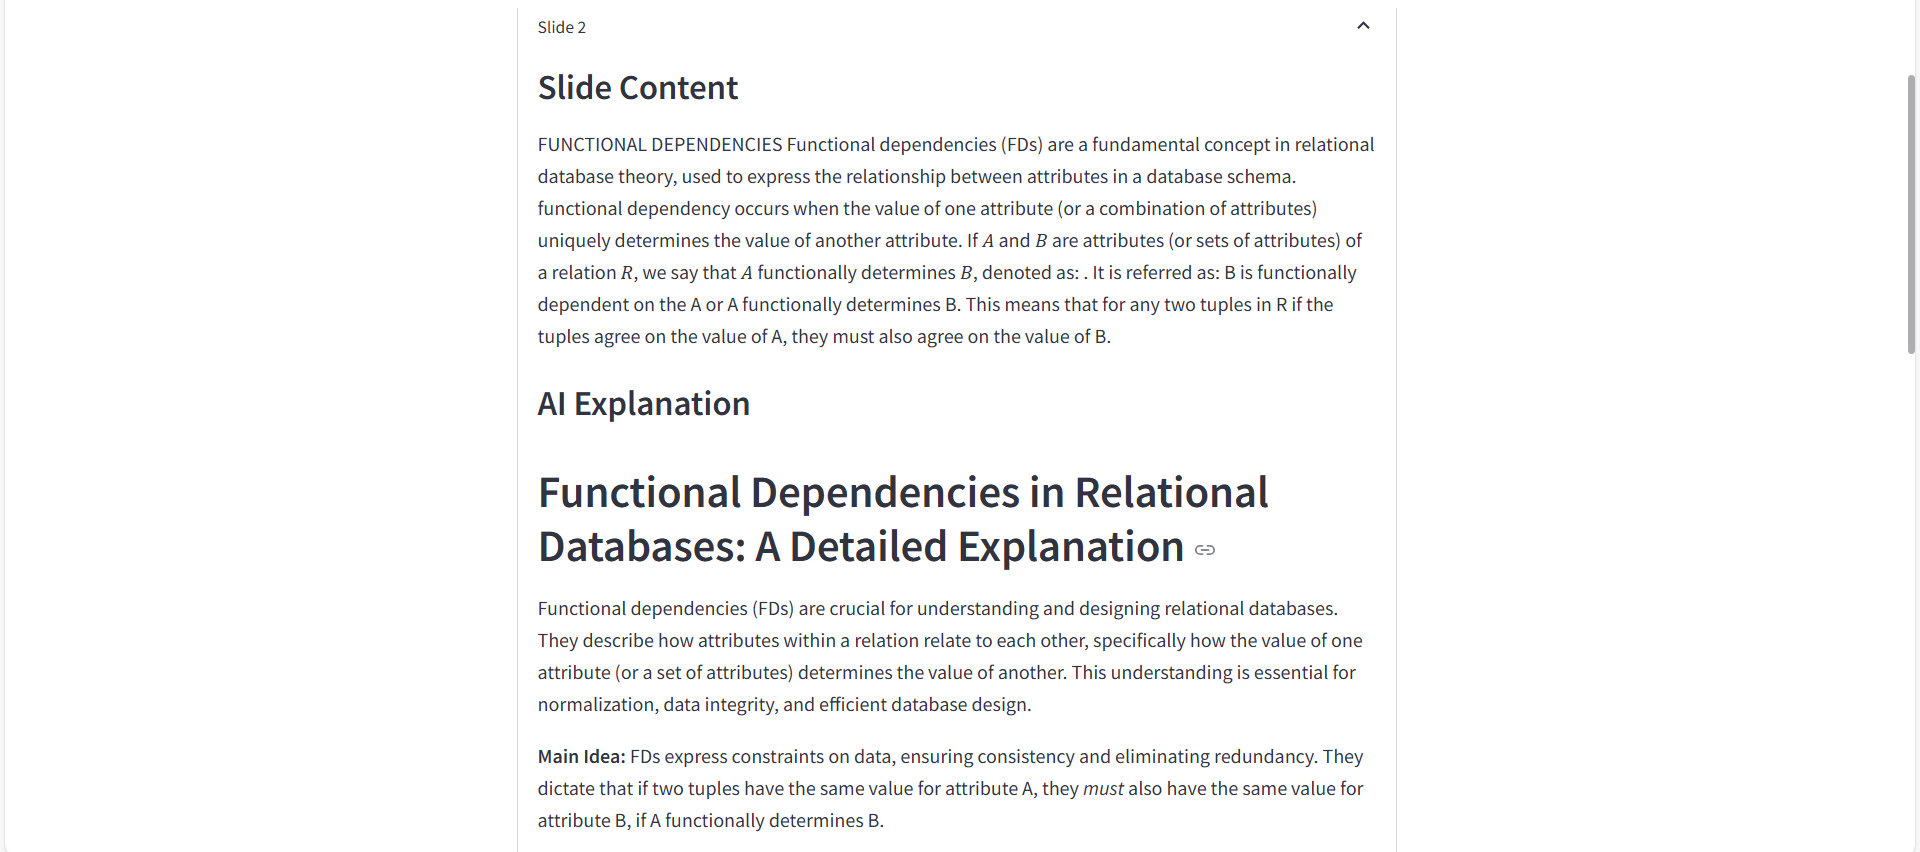
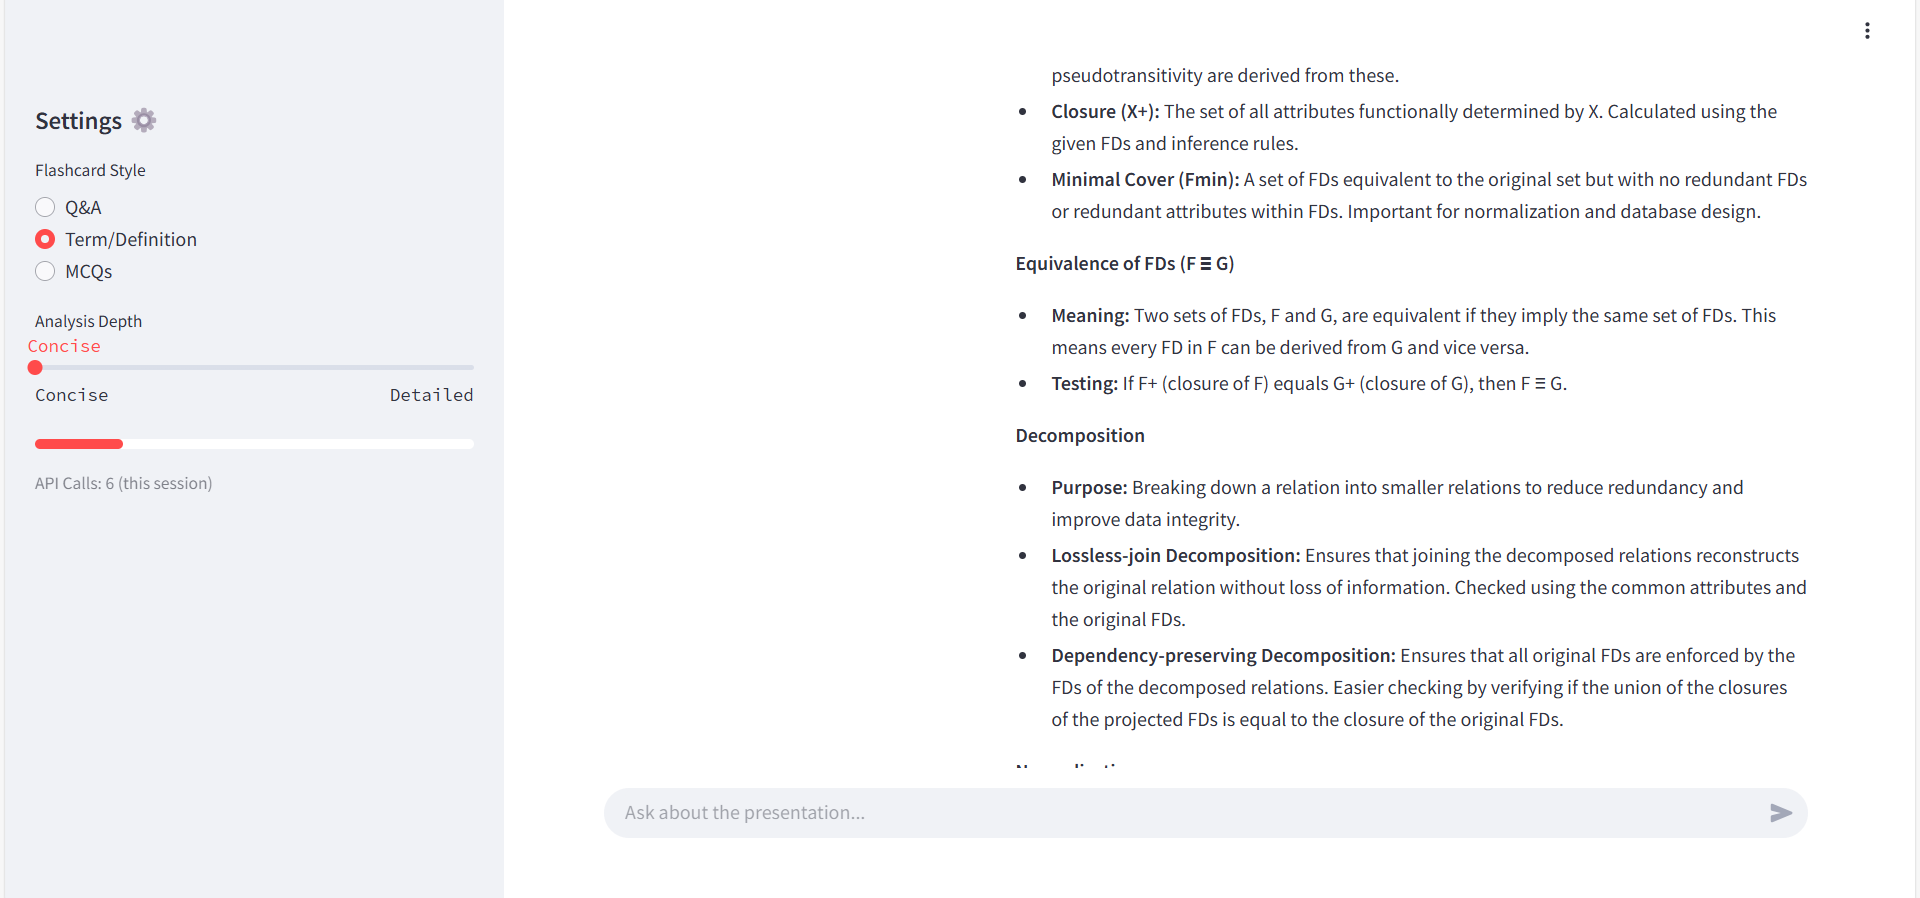
added features

diff --git a/app.py b/app.py
@@ -3,49 +3,220 @@ import streamlit as st
 from pptx import Presentation
 import tempfile
 import os
+import pandas as pd
+import time
+from google.api_core import retry
+from google.api_core.exceptions import ResourceExhausted  # Import correct exception
 
 # Configure Gemini API
 genai.configure(api_key=st.secrets["GEMINI_API_KEY"])
 
+# Custom retry configuration
+def if_retryable(error):
+    return isinstance(error, (genai.types.BlockedPromptException, 
+                                genai.types.StopCandidateException,
+                                ResourceExhausted))  # Use imported ResourceExhausted
 
-def analyze_slide(slide_text):
-    """Get AI analysis for slide content using Gemini"""
-    model = genai.GenerativeModel("models/gemini-1.5-pro")  # Recommended model
-    response = model.generate_content(
-        f"Using the following slide content, provide a comprehensive and detailed explanation. Summarize the main ideas, elaborate on key concepts, and highlight the information that is most critical for exam preparation. If appropriate, include bullet points or key takeaways to clearly outline the important points.Slide content:{slide_text}"
-    )
+retry_policy = retry.Retry(
+    predicate=if_retryable,
+    initial=1,
+    maximum=10,
+    multiplier=2,
+    deadline=300
+)
+
+# Session state management
+if 'processed' not in st.session_state:
+    st.session_state.processed = {
+        'file_hash': None,
+        'slides': [],
+        'flashcards': [],
+        'api_calls': 0,
+        'last_call': 0
+    }
+
+# Rate limiting configuration
+MAX_CALLS_PER_MINUTE = 30  # Adjust based on your quota
+MIN_INTERVAL = max(60 / MAX_CALLS_PER_MINUTE, 1)
+
+@retry_policy
+def safe_generate(prompt):
+    current_time = time.time()
+    elapsed = current_time - st.session_state.processed['last_call']
+    
+    if elapsed < MIN_INTERVAL:
+        time.sleep(MIN_INTERVAL - elapsed)
+    
+    model = genai.GenerativeModel("gemini-1.5-pro-latest")
+    response = model.generate_content(prompt)
+    
+    st.session_state.processed['api_calls'] += 1
+    st.session_state.processed['last_call'] = time.time()
+    
     return response.text
 
 def process_ppt(file):
-    """Extract and analyze slides"""
+    """Process PowerPoint file with caching"""
+    file_hash = hash(file.getvalue())
+    if file_hash == st.session_state.processed['file_hash']:
+        return st.session_state.processed['slides']
+    
     with tempfile.NamedTemporaryFile(delete=False) as tmp:
         tmp.write(file.read())
         prs = Presentation(tmp.name)
     
     results = []
     for i, slide in enumerate(prs.slides):
-        text = "\n".join(
-            shape.text for shape in slide.shapes 
-            if shape.has_text_frame
-        )
-        analysis = analyze_slide(text)
-        results.append((f"Slide {i+1}", text, analysis))
+        text = "\n".join(shape.text for shape in slide.shapes if shape.has_text_frame)
+        results.append({
+            "number": i+1,
+            "content": text,
+            "analysis": "",
+            "flashcards": []
+        })
     
     os.unlink(tmp.name)
+    st.session_state.processed['file_hash'] = file_hash
+    st.session_state.processed['slides'] = results
     return results
 
+def generate_analysis(content):
+    """Generate slide analysis with efficient prompt"""
+    prompt = f"Provide concise exam-focused analysis in bullet points:\n{content}"
+    return safe_generate(prompt)
+
+def generate_flashcards(content, card_type):
+    """Generate formatted flashcards"""
+    formats = {
+        "Q&A": "Generate 2-3 Q&A flashcards using:\nQ: question\nA: answer",
+        "Term/Definition": "Create 2-3 term/definition pairs using:\nT: term\nD: definition",
+        "MCQs": "Generate 2 MCQs with 4 options using:\nQ: question\nOptions: a) b) c) d)\nA: answer"
+    }
+    prompt = f"{formats[card_type]} from:\n{content}"
+    return safe_generate(prompt)
+
+def parse_flashcards(text, card_type):
+    """Parse generated flashcards into structured format"""
+    cards = []
+    current = {}
+    lines = text.split('\n')
+    
+    for line in lines:
+        line = line.strip()
+        if not line:
+            continue
+            
+        if card_type == "MCQs":
+            if line.startswith('Q:'):
+                current = {'question': line[3:].strip()}
+            elif line.startswith('Options:'):
+                current['options'] = line[8:].strip()
+            elif line.startswith('A:'):
+                current['answer'] = line[3:].strip()
+                cards.append(current)
+        else:
+            key = 'term' if card_type == "Term/Definition" else 'question'
+            val = 'definition' if card_type == "Term/Definition" else 'answer'
+            
+            if line.startswith(f"{key[0].upper()}:"):
+                current = {key: line[3:].strip()}
+            elif line.startswith(f"{val[0].upper()}:"):
+                current[val] = line[3:].strip()
+                cards.append(current)
+    
+    return cards
+
 # Streamlit UI
-st.title("AI PPT Explainer 🎓")
+st.set_page_config(page_title="AI PPT Summarizer", layout="wide")
+st.title("📚 AI PPT Summarizer with Smart Features")
+
+with st.sidebar:
+    st.header("Settings ⚙")
+    card_type = st.radio("Flashcard Style", ["Q&A", "Term/Definition", "MCQs"])
+    analysis_depth = st.select_slider("Analysis Depth", ["Concise", "Normal", "Detailed"])
+    st.progress(st.session_state.processed['api_calls'] % MAX_CALLS_PER_MINUTE / MAX_CALLS_PER_MINUTE)
+    st.caption(f"API Calls: {st.session_state.processed['api_calls']} (this session)")
+
 uploaded_file = st.file_uploader("Upload PowerPoint file", type=["ppt", "pptx"])
 
 if uploaded_file:
-    with st.spinner("Analyzing your presentation..."):
-        slides = process_ppt(uploaded_file)
+    slides = process_ppt(uploaded_file)
+    progress_bar = st.progress(0)
     
-    for slide_num, content, analysis in slides:
-        with st.expander(slide_num):
-            st.subheader("Slide Content")
-            st.write(content or "No text detected")
+    for idx, slide in enumerate(slides):
+        col1, col2 = st.columns([1, 2])
+        
+        with col1:
+            with st.expander(f"Slide {slide['number']} Content", expanded=True):
+                st.write(slide['content'] or "No text detected")
+        
+        with col2:
+            tab1, tab2 = st.tabs(["Analysis 📝", "Flashcards 🗂"])
             
-            st.subheader("AI Explanation")
-            st.write(analysis)
+            with tab1:
+                if not slide['analysis']:
+                    try:
+                        slide['analysis'] = generate_analysis(slide['content'])
+                    except Exception as e:
+                        st.error(f"Analysis failed: {str(e)}")
+                st.markdown(slide['analysis'])
+            
+            with tab2:
+                if not slide['flashcards']:
+                    try:
+                        raw = generate_flashcards(slide['content'], card_type)
+                        slide['flashcards'] = parse_flashcards(raw, card_type)
+                    except Exception as e:
+                        st.error(f"Flashcard generation failed: {str(e)}")
+                
+                if slide['flashcards']:
+                    cols = st.columns(2)
+                    for i, card in enumerate(slide['flashcards']):
+                        with cols[i % 2]:
+                            with st.container():
+                                st.markdown(f"""
+                                <div style='padding:10px;border-radius:5px;
+                                            background:#f0f2f6;margin:5px;'>
+                                    <b>{card.get('question', card.get('term', 'Q'))}:</b><br>
+                                    {card.get('options', '')}<br>
+                                    <details style='margin-top:5px'>
+                                        <summary>Reveal Answer</summary>
+                                        <div style='padding:5px;background:white;
+                                                    border-radius:3px;margin-top:5px'>
+                                            {card.get('answer', card.get('definition', ''))}
+                                        </div>
+                                    </details>
+                                </div>
+                                """, unsafe_allow_html=True)
+                    # Export buttons
+                    df = pd.DataFrame(slide['flashcards'])
+                    st.download_button(
+                        label=f"Export Slide {slide['number']} Flashcards",
+                        data=df.to_csv(index=False),
+                        file_name=f"slide_{slide['number']}_cards.csv",
+                        key=f"export_{idx}"
+                    )
+        
+        progress_bar.progress((idx + 1) / len(slides))
+
+# Chat feature
+st.divider()
+st.subheader("Presentation Chat Assistant 💬")
+
+if "messages" not in st.session_state:
+    st.session_state.messages = []
+
+for message in st.session_state.messages:
+    with st.chat_message(message["role"]):
+        st.markdown(message["content"])
+
+if prompt := st.chat_input("Ask about the presentation..."):
+    context = " ".join([s['content'] for s in slides])
+    try:
+        response = safe_generate(f"Context: {context}\nQuestion: {prompt}\nAnswer:")
+        st.session_state.messages.append({"role": "user", "content": prompt})
+        st.session_state.messages.append({"role": "assistant", "content": response})
+    except Exception as e:
+        st.error(f"Chat error: {str(e)}")
+    
+    st.rerun()

diff --git a/README.md b/README.md
@@ -1,59 +1,100 @@
-# AI PPT Summarizer 🤖📊
+# AI PPT Summarizer
 
-Automatically generates slide-by-slide explanations for PowerPoint presentations using Google's Gemini AI.
+Effortlessly generate slide-by-slide explanations, study tips, and flashcards for PowerPoint presentations using Google's Gemini AI.
 
 ![App Demo](assets/upload-interface.png)
 
-## Key Features
-- **Instant Upload**: Drag-and-drop PPT/PPTX files
-- **AI Analysis**: Gemini-powered explanations
-- **Study Focus**: Key points & exam tips
-- **Responsive UI**: Real-time progress tracking
+---
 
-## Setup
-```bash
-# Clone repository
+## 🚀 Key Features
+
+- **Instant Upload**: Drag-and-drop support for `.ppt` and `.pptx` files.
+- **AI-Powered Analysis**: Generates detailed explanations and exam-focused insights for each slide.
+- **Flashcard Generation**: Create flashcards in various formats (Q&A, Term/Definition, MCQs) for quick review.
+- **Interactive Chat Assistant**: Ask questions about your presentation content and get real-time answers.
+- **Responsive UI**: Real-time progress tracking and export options for flashcards.
+- **Robust Processing**: Caching and retry mechanisms for seamless API handling.
+
+---
+
+## 🛠 Setup
+
+Follow these steps to set up the project on your local machine:
+
+### 1. Clone the Repository
 git clone https://github.com/karanveerksb/AI_PPT_Summarizer.git
 cd AI_PPT_Summarizer
 
-# Create virtual environment
-python -m venv venv
-source venv/bin/activate  # Linux/Mac
-venv\Scripts\activate    # Windows
 
-# Install dependencies
+### 2. Create a Virtual Environment
+For Linux/Mac
+python -m venv venv
+source venv/bin/activate
+
+For Windows
+python -m venv venv
+venv\Scripts\activate
+
+
+### 3. Install Dependencies
 pip install -r requirements.txt
 
-# Configure Gemini API key
-echo "GEMINI_API_KEY = 'your-api-key'" > .streamlit/secrets.toml
-Usage
-bash
-Copy
-streamlit run app.py
-```
-## Usage
-Step 1: Upload Presentation
-![Upload Interface](assets/upload-interface.png)
-Supported formats: .ppt, .pptx
 
-Step 2: Processing
+### 4. Configure Your Gemini API Key
+Add your Gemini API key to the `.streamlit/secrets.toml` file:
+GEMINI_API_KEY = "your-api-key"
+
+
+---
+
+## ▶ Usage
+
+### Step 1: Launch the Application
+Run the app using Streamlit:
+streamlit run app.py
+
+
+### Step 2: Upload Your Presentation
+Drag and drop your `.ppt` or `.pptx` file into the upload interface.
+
+![Upload Interface](assets/upload-interface.png)
+
+### Step 3: Processing
+The app processes each slide, generating detailed analysis, flashcards, and study tips in real time.
+
 ![Processing](assets/processing.png)
 
-Step 3: View Results
+### Step 4: View Results
+Explore slide content, AI-generated insights, and flashcards. Export flashcards to CSV if needed.
+
 ![Analysis Results](assets/results1.png)
 ![Analysis Results](assets/results2.png)
 ![Analysis Results](assets/results3.png)
 ![Analysis Results](assets/results4.png)
+![Analysis Results](assets/results5.png)
+![Analysis Results](assets/results6.png)
+![Analysis Results](assets/flash_cards.png)
 
-Includes explanations and study tips per slide
+### Step 5: Interactive Chat Assistant 
+Use the chat assistant to ask questions about your slides and receive instant answers.
+![Chat](assets/chat.png)
 
+---
 
+## 🧰 Tech Stack
 
-Tech Stack
-AI Engine: Google Gemini Pro
+- **AI Engine**: Google Gemini-1.5-Pro  
+- **Frontend**: Streamlit  
+- **PPT Processing**: `python-pptx`  
+- **Environment**: Python 3.9+  
 
-Frontend: Streamlit
+---
 
-PPT Processing: python-pptx
+## 📂 Project Structure
 
-Environment: Python 3.9+
+AI_PPT_Summarizer/
+├── app.py
+├── assets/
+├── requirements.txt
+├── .streamlit/
+└── README.md
